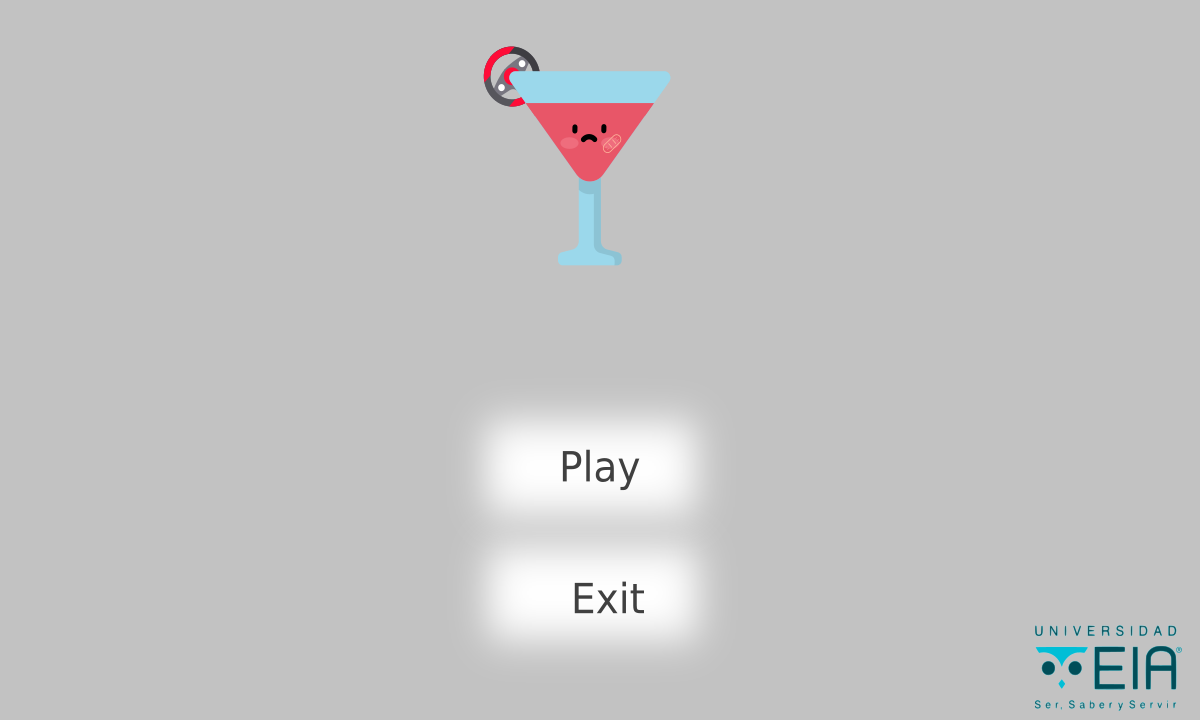
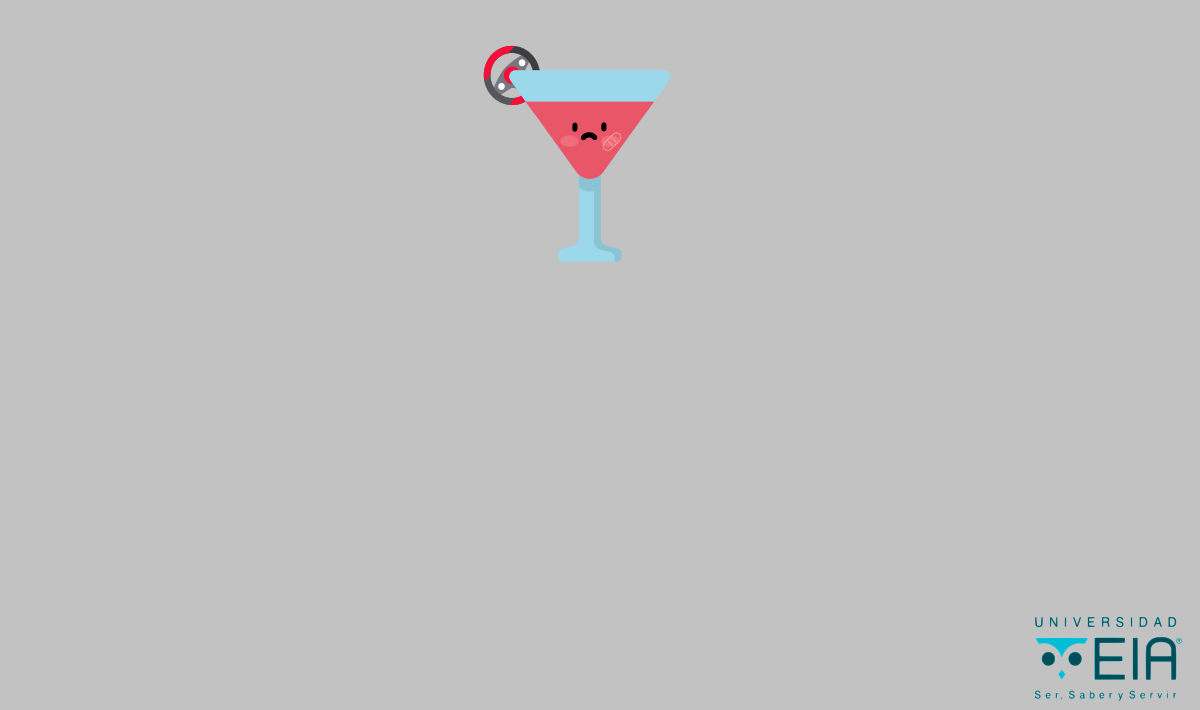
intro image and main menu
buttons (play and exit) working properly.

Changed region(s): [[0.4008, 0.5577, 0.5858, 0.8986]]

diff --git a/Game/driving.py b/Game/driving.py
@@ -46,20 +46,41 @@ class Landscape(pygame.sprite.Sprite):
         self.sw_angle  = angle
         self.bounds = bounds
 
+class Button(pygame.sprite.Sprite):
+    def __init__(self,static,over,x,y):
+        self.image_static=static
+        self.image_over=over
+        self.image_current=self.image_static
+        self.rect=self.image_current.get_rect()
+        self.rect.left,self.rect.top=(x,y)
+
+    def update(self,screen,cursor):
+        if cursor.colliderect(self.rect):
+            self.image_current=self.image_over
+        else: self.image_current=self.image_static
+        
+        screen.blit(self.image_current,self.rect)
+
+class Cursor(pygame.Rect):
+    def __init__(self):
+        pygame.Rect.__init__(self,0,0,1,1)
+    def update(self):
+        self.left,self.top=pygame.mouse.get_pos()
+
 # -----------
 def main():
     #Initial settings
     clock = pygame.time.Clock()
     screen = pygame.display.set_mode((display_width, display_height))
     pygame.display.set_caption("Drunksi Driving Mode")
-    #pygame.display.set_mode((0,0),pygame.FULLSCREEN)
+    pygame.display.set_mode((0,0),pygame.FULLSCREEN)
 
 
     #Sprites and images
     landscape = Landscape()    
     cockpit = pygame.image.load("images/cockpit.png").convert_alpha()
     swheel = pygame.image.load("images/s_wheel.png").convert_alpha()
-    intro  = pygame.image.load("images/intro.png").convert_alpha();
+    intro  = pygame.image.load("images/load.png").convert_alpha();
 
     swheel_copy = swheel.copy()
     
@@ -71,10 +92,52 @@ def main():
     import time
     screen.blit(intro,(0,0))
     pygame.display.flip()
-    time.sleep(5)
+    time.sleep(2)
+
+    white = (0,0,0)
+    screen.fill(white)
 
 
-    running = True
+######################### Menu ################################
+    #Menu Backgound
+    menu  = pygame.image.load("images/menu.png").convert_alpha();
+    screen.blit(menu,(0,0))
+    pygame.display.flip()
+
+    running = False
+
+    #imagenes botones
+    plays=pygame.image.load("images/buttons/play_s.png")
+    playo=pygame.image.load("images/buttons/play_o.png")
+    exits=pygame.image.load("images/buttons/exit_s.png")
+    exito=pygame.image.load("images/buttons/exit_o.png") 
+    
+    play=Button(plays,playo,480,300)
+    exit=Button(exits,exito,480,400)
+    cursor1=Cursor()
+
+
+    while running ==False :
+        keys = pygame.key.get_pressed()
+
+        for event in pygame.event.get():
+            if event.type==pygame.MOUSEBUTTONDOWN:
+                if cursor1.colliderect(play.rect):
+                    running = True
+                if cursor1.colliderect(exit.rect):
+                    sys.exit(0)
+
+            if event.type == QUIT or keys[K_ESCAPE]:
+                running = True
+                sys.exit(0)
+
+        time = clock.tick(60)
+        cursor1.update()
+        play.update(screen,cursor1)
+        exit.update(screen,cursor1)
+        pygame.display.flip()
+
+
     while running:
         keys = pygame.key.get_pressed()
         time = clock.tick(60)  
